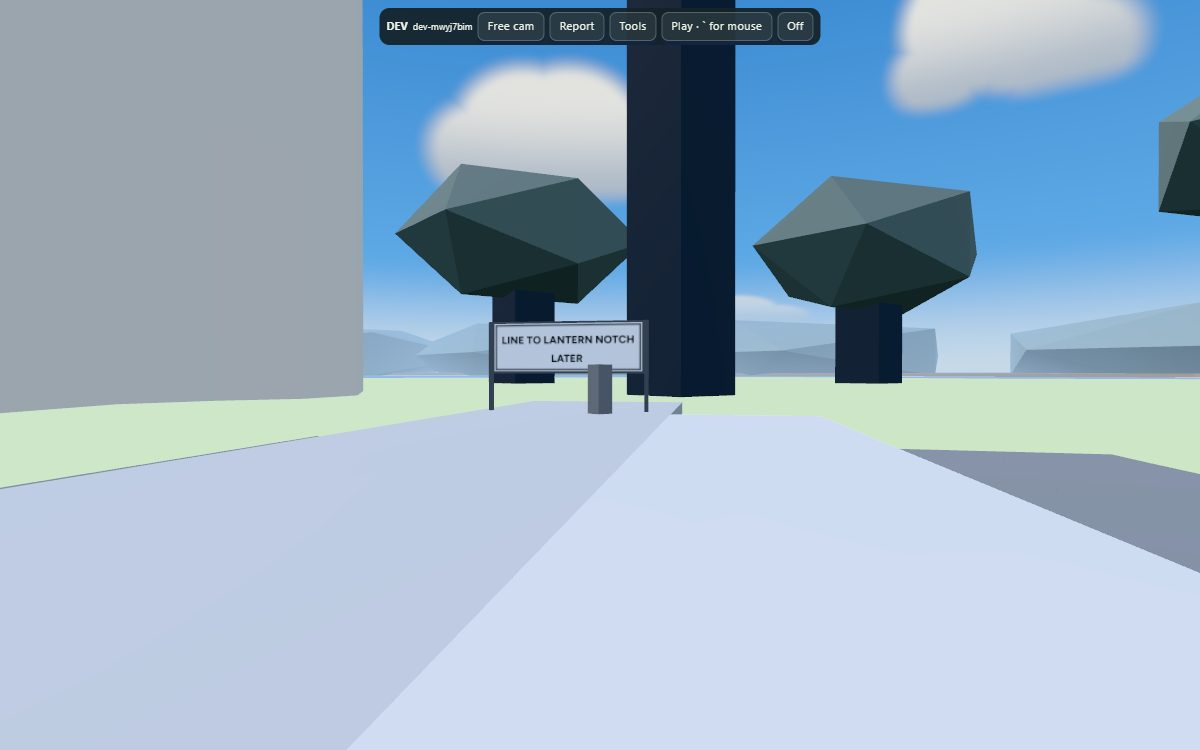
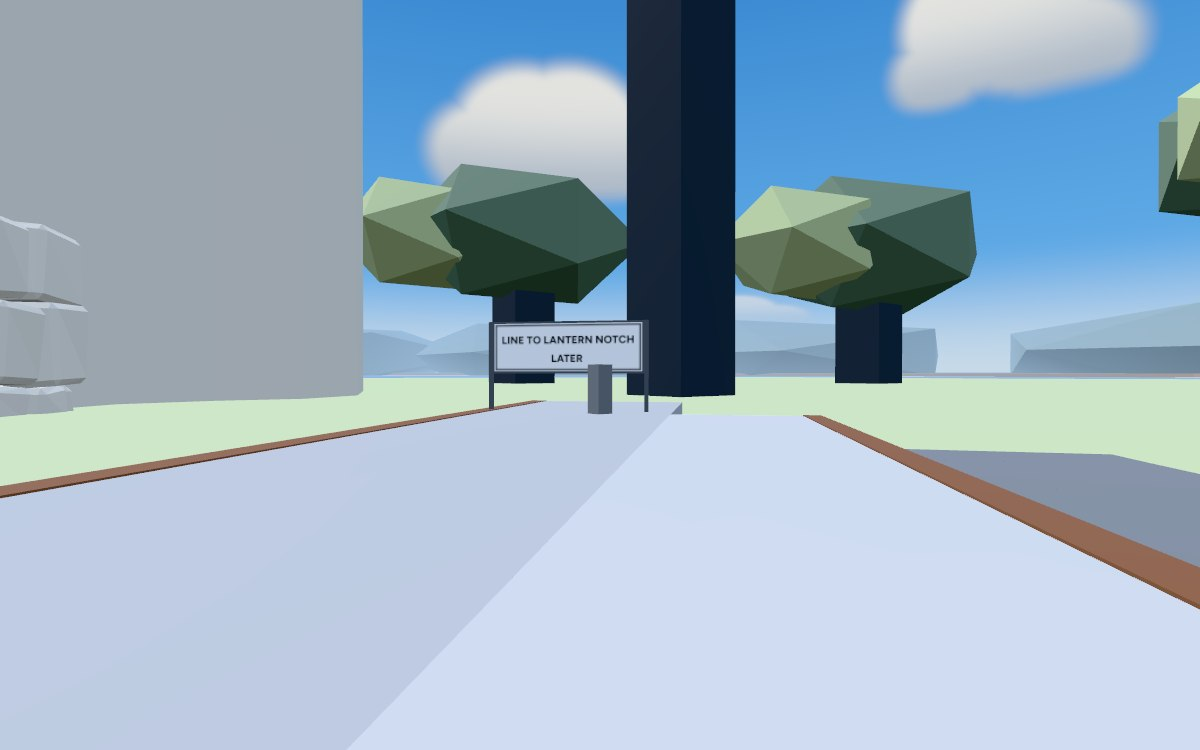
Seat Canopy's chalk courses and wrap its freight edges in timber

diff --git a/dev/prefab/cliff-kit-canopy.ts b/dev/prefab/cliff-kit-canopy.ts
@@ -1,30 +1,32 @@
-import { defineLevel } from '../../src/prefab/types.ts';
+import { defineLevel, type Placement } from '../../src/prefab/types.ts';
 
-// Narrow beds on the two inward-facing chalk walls. The route view uses only the kit
-// geometry. These are vertical face details, well above the halt and below either rim.
+// Runs follow the inward contours of the two chalk islets. The bottom of each face
+// enters the isle at 12 m, and its battered back disappears into the islet wall.
+const beds = [
+  // centre x, z, outward yaw, width in ten-metre units, vertical scale
+  [-1006.9, -406.1, 1.05, 2.65, 2.6],
+  [-1018.2, -386.3, 0.98, 2.35, 3.3],
+  [-1030.8, -370.6, 0.86, 2.05, 3.5],
+  [-1042.6, -358.7, 0.74, 1.75, 3],
+  [-1053.5, -350.1, 0.62, 1.5, 2.5],
+  [-1063.5, -344.3, 0.42, 1.2, 1.9],
+  [-1071.9, -341, 0.14, 1.1, 1.4],
+  [-1075.4, -252.2, -2.04, 1.9, 2.5],
+  [-1067.7, -264.2, -2.3, 1.35, 3],
+  [-1060, -269, -3.05, 1.25, 3.4],
+  [-1053.4, -263.9, 2.35, 1.1, 3.3],
+  [-1047, -258.3, 2.01, 1.65, 2.9],
+  [-1040.9, -246.4, 2.08, 1.55, 2.4],
+  [-1034.5, -239.7, 2.67, 1.15, 1.9],
+  [-1027, -236.6, 2.86, 1.05, 1.5],
+] as const;
 export const canopyCleft = defineLevel({
   place: 'canopy-cleft',
-  placements: [
-    {
-      id: 'north-low',
-      prefab: 'terrain.sea-face-10',
-      pos: [-1032.54, 23, -372.1],
-      rot: [0.87, 0, 0],
-      scale: [1.7, 1.4, 0.12],
-    },
-    {
-      id: 'north-high',
-      prefab: 'terrain.sea-face-10',
-      pos: [-1043.87, 33, -360.21],
-      rot: [0.74, 0, 0],
-      scale: [1.3, 1, 0.12],
-    },
-    {
-      id: 'south-low',
-      prefab: 'terrain.sea-face-10',
-      pos: [-1027.52, 28, -234.29],
-      rot: [2.86, 0, 0],
-      scale: [0.82, 1.3, 0.12],
-    },
-  ],
+  placements: beds.map(([x, z, yaw, width, height], i): Placement => ({
+    id: `cleft-bed-${i}`,
+    prefab: 'terrain.sea-face-10',
+    pos: [x, 11, z],
+    rot: [yaw, 0, 0],
+    scale: [width, height, 2.2],
+  })),
 });

diff --git a/src/entities/route-greybox/massing-canopy.ts b/src/entities/route-greybox/massing-canopy.ts
@@ -5,18 +5,24 @@ import level from '../../../content/built/levels/canopy.json' with { type: 'json
 import cleft from '../../../content/built/levels/canopy-cleft.json' with { type: 'json' };
 import * as THREE from 'three/webgpu';
 import { terrainKitGeometry } from '../terrain-kit/geometry.ts';
-import { kitMaterial } from '../../prefab/builders/terrain-kit.ts';
+import { material } from '../../render/materials.ts';
 import type { OwnedView } from '../../render/owned-view.ts';
 import { compiled as records } from '../../prefab/catalogue.ts';
 import { leg2Massing, leg2Extras, leg2Placements } from './leg2-draw.ts';
 import { AREA_CENTRES, coverNear } from './leg2-layout.ts';
-const placements = leg2Massing(level);
+const placements = leg2Massing(level).map((p) =>
+  p.id.startsWith('canopy.freight-edge-') ? { ...p, params: { ...p.params, colour: '#795238' } } : p,
+);
 export const canopyMassing = () => placements;
 export function canopyExtras(owner: OwnedView) {
   void terrainKitGeometry()
     .then((pieces) => {
       if (!owner.alive) return;
-      const mesh = new THREE.InstancedMesh(pieces.get('sea_face_10')!, kitMaterial(), cleft.placements.length);
+      const mesh = new THREE.InstancedMesh(
+        pieces.get('sea_face_10')!,
+        material('stone', { colour: '#c9c5bb' }),
+        cleft.placements.length,
+      );
       mesh.name = 'Canopy cleft ledges';
       cleft.placements.forEach((p, i) => {
         const matrix = new THREE.Matrix4().makeRotationY(p.rot[0]!);

diff --git a/src/entities/sickle-backdrop/view.ts b/src/entities/sickle-backdrop/view.ts
@@ -207,8 +207,8 @@ export function createBackdrop() {
       const y = (t.h ?? 72) - 25 + Math.sin(i * 2.4) * 9;
       box(x, 28, z, 12, 32, 12);
       if (t.land === 'canopy-isle') {
-        crown(x, y + 5, z, 34, 19, 29);
-        crown(x + 12 * Math.cos(angle), y + 12, z + 12 * Math.sin(angle), 23, 14, 21, '#74816c');
+        crown(x, y + 5, z, 34, 19, 29, '#657663');
+        crown(x + 23, y + 4, z + 10 * Math.sin(angle), 23, 15, 21, '#a1ad83');
       } else crown(x, y, z, t.r[0] * 0.22, 28, t.r[1] * 0.22);
     }
     for (const [x, z] of t.mothers ?? []) {
@@ -216,7 +216,7 @@ export function createBackdrop() {
       box(x, (h - 30) / 2, z, 10, h - 30, 10);
       if (t.land === 'canopy-isle') {
         crown(x - 11, h - 28, z, 35, 21, 33);
-        crown(x + 13, h - 18, z + 6, 29, 19, 25, '#74816c');
+        crown(x + 24, h - 28, z + 10, 29, 19, 25, '#a1ad83');
       } else crown(x, h - 36, z, 45, 36, 45);
     }
   }

diff --git a/src/content/levels/leg3.ts b/src/content/levels/leg3.ts
@@ -280,15 +280,15 @@ function canopy() {
     extras: [{ id: 'lands', prefab: 'greybox.canopy-lands', pos: [0, 0, 0] }],
     pieces: [
       ...pieces,
-      // Warm rubbing strips sit below the walkable lip, outside the running gauge.
+      // Rubbing timbers wrap the vertical faces and cap the existing deck lip.
       ...(
         [
-          [-3.88, -3.78, 23],
-          [3.78, 3.88, 12],
-          [-13.84, -13.74, 30],
+          [-4.24, -3.78, 23],
+          [3.78, 4.24, 12],
+          [-13.84, -13.28, 30],
         ] as const
       ).map(([b0, b1, end], i) => ({
-        ...cf.box(`freight-edge-${i}`, -33, end, b0, b1, 13.82, 0.36, 'sandstone'),
+        ...cf.box(`freight-edge-${i}`, -33, end, b0, b1, 13.925, 0.65, 'sandstone'),
         solid: false,
       })),
     ],

diff --git a/docs/plans/greybox-look.md b/docs/plans/greybox-look.md
@@ -106,11 +106,18 @@ From the car the near pier's courses rise beside the red cab and blue sky shows 
 
 - [x] **Card 3 implementation.** Canopy’s high foliage uses smaller overlapping crowns with a lighter upper cluster. Three kit faces flank the cleft and leave with the route area. Three narrow rubbing strips follow the existing deck and platform edges below foot height. The separate far-ground grid (steps 1, 2 and 4) supplies none of these surfaces. The chalk walls, tree trunks and freight deck have their own fixed geometry.
 - [x] **Card 3 fixed-camera proofs.** Both builds used `stack-laid-4`, authored daylight and default FOV. Desktop used 1200 × 750 and full Detail. Portrait used a 390 × 844 touch viewport, lowest Detail and 0.6 resolution on the desktop GPU. The census records the whole rendered view, including any shadow pass. All four observed differences fit the card’s allowance.
+- [x] **Card 3 implementation.** Canopy’s high foliage uses smaller overlapping crowns with a lighter upper cluster. Fifteen instanced kit faces form two chalk courses around the cleft mouth. Their bases enter the 12 m isle surface by a metre. Both runs leave with the route area. Three brown rubbing timbers wrap the existing deck and platform lips, showing a 0.46–0.56 m cap from seated height. The separate far-ground grid (steps 1, 2 and 4) supplies none of these surfaces. The chalk walls, tree trunks and freight deck have their own fixed geometry.
+- [x] **Card 3 fixed-camera proofs.** Both builds used `stack-laid-4`, authored daylight and default FOV. Desktop used 1200 × 750 and full Detail. Portrait used a 390 × 844 touch viewport, lowest Detail and 0.6 resolution on the desktop GPU. The census records the whole rendered view, including any shadow pass. All six observed differences fit the card’s allowance. The census waited for Canopy to mount and sampled the same render used for the still.
 | Camera and world-space eye → target (m) | Desktop before → after, draws / triangles | Portrait before → after, draws / triangles | Stills |
 | Approach from coach height (−997, 16, −392) → (−1064, 38, −329) | 125 / 403,487 → 126 / 405,711 | 74 / 267,259 → 75 / 269,483 | [Before](greybox-look/card3-before-approach.jpg) · [After](greybox-look/card3-after-approach.jpg) · [Portrait](greybox-look/card3-after-approach-portrait.jpg) |
 | Seated halt toward the cloth post (−1081, 15.1, −308) → (−1091.99, 15, −294.01) | 127 / 403,799 → 128 / 406,023 | 76 / 267,571 → 75 / 269,619 | [Before](greybox-look/card3-before-halt.jpg) · [After](greybox-look/card3-after-halt.jpg) |
 The approach shows daylight between the lower crowns and warm rock against both chalk faces. At the halt, open sky separates the two crowns behind the board. The seed shows the cloth post and the edge of the deck. The phone halt’s whole-scene draw total varied by one between builds. The first platform proof placed Buddy inside the camera. The matched pair stands Buddy behind it. No frame timing taken; not tested on a device.
 - [ ] **Card 3 moving-train repeat.** Chromium reported `page.evaluate: Target crashed` during the `canopy-reached` ride warm-up. A separate bounded run to prepare an approaching-train save expired after 240 seconds. The fixed coach-height proof above covers the approach framing.
+| Approach from coach height (−997, 16, −392) → (−1064, 38, −329) | 130 / 410,983 → 131 / 420,599 | 79 / 274,755 → 80 / 284,371 | [Before](greybox-look/card3-before-approach.jpg) · [After](greybox-look/card3-after-approach.jpg) · [Portrait](greybox-look/card3-after-approach-portrait.jpg) |
+| Seated halt toward the cloth post (−1081, 15.1, −308) → (−1091.99, 15, −294.01) | 129 / 403,523 → 130 / 413,139 | 78 / 267,295 → 79 / 276,911 | [Before](greybox-look/card3-before-halt.jpg) · [After](greybox-look/card3-after-halt.jpg) |
+| Outward platform across the freight deck (−1062.2, 15.1, −341.65) → (−1082, 14, −306) | 132 / 411,311 → 131 / 421,687 | 81 / 275,083 → 82 / 284,699 | [Before](greybox-look/card3-before-freight.jpg) · [After](greybox-look/card3-after-freight.jpg) |
+At the approach, a long horizontal seam follows the near chalk wall and the opposite course steps down into the ground. At the halt, the brown platform and freight-deck edges lead toward the board. The seed shows the cloth post and the edge of the deck. On the opposite platform the top and the vertical side of the timber are visible. The lighter foliage sits low enough to catch daylight beside the dark near crowns. Five views added one draw and 9,616 triangles. The desktop freight view had one fewer draw and 10,376 more triangles in the whole scene. No frame timing taken; not tested on a device.
+- [x] **Card 3 moving-train repeat.** The bay train was running outward at 2,196.11 m on the accepted `canopy-reached` route. The player car reported `riding: true`. Camera eye (−930.37848, 15.85, −453.71080) → (−967.04855, 23.55, −421.05936). From this seat the crowns pass above the cab roof. The cab obscures the platform and most of the chalk, which are visible in the fixed approach pair. [Occupied coach](greybox-look/card3-riding.jpg)
 ## Cost envelope
 
 Proposed **incremental** counts over the matching greybox camera, both colour and shadow passes, for all visible dressing combined. The tighter phone target preserves the dominant silhouette and shore value break, then sheds small vegetation, loose props and distant shadows first. Use existing sea, sky, fog, palettes and shared materials throughout. Mount near detail with its area and retain one coarse far outline. Avoid area-specific water or sky passes.
